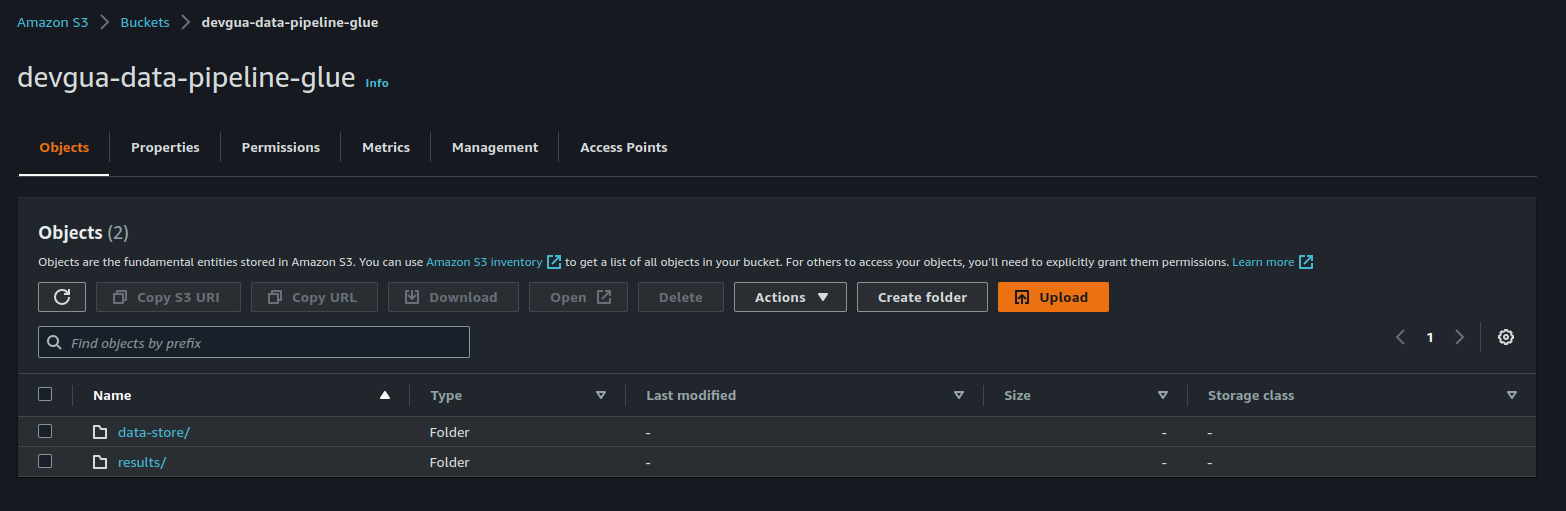
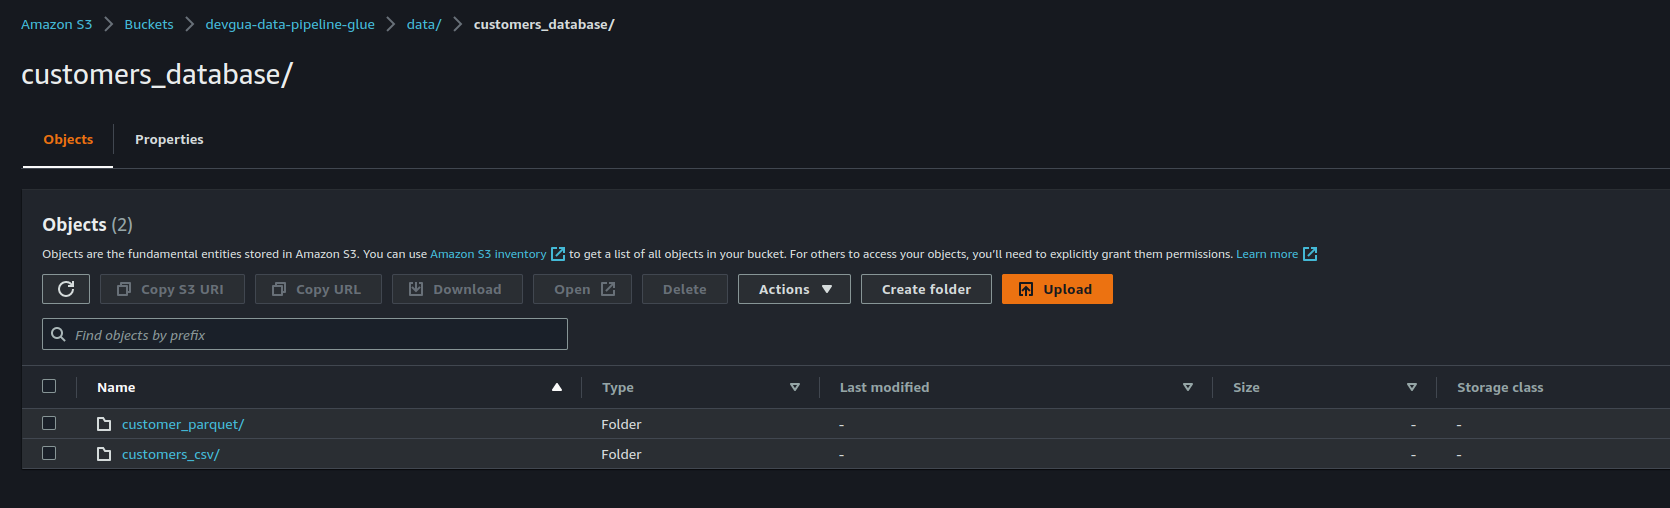
Feat: add s3 bucket and upload csv files

diff --git a/README.md b/README.md
@@ -20,7 +20,8 @@
 
 ## Features
 List the ready features here:
-- Create an S3 bucket, 
+- Create an S3 bucket with folders for csv files and parquet files, 
+- upload csv file with customer data,
 
 ## Screenshots
 Schematic diagram
